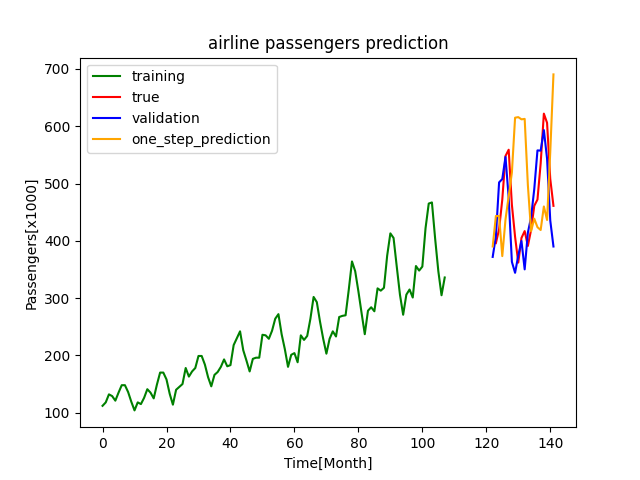
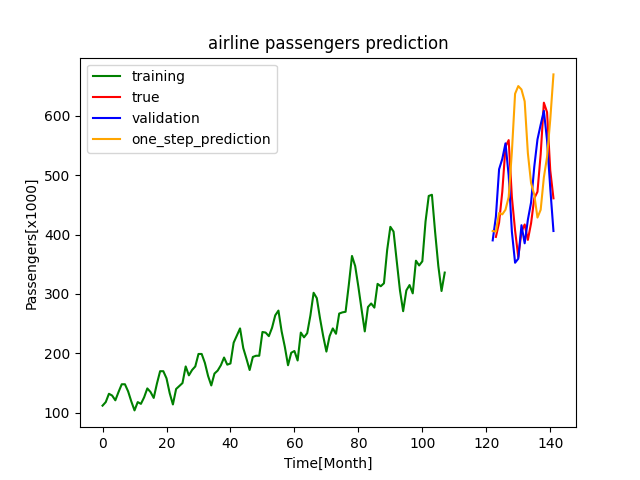
fix bug in aireline_passengers_forecasting_keras

diff --git a/TimeSeriesPrediction/2_UnivariantTimeSeriesForecast/AirlinePassengers/Keras/airline_passengers_forecasting_keras.py b/TimeSeriesPrediction/2_UnivariantTimeSeriesForecast/AirlinePassengers/Keras/airline_passengers_forecasting_keras.py
@@ -60,7 +60,7 @@ ffn = create_FFN(train_input_timeseries, train_targets)
 
 def validation_forecast(model, inputs):
     predictions = model.predict(inputs)
-    return predictions.tolist()
+    return predictions.flatten()
 
 
 results = pd.DataFrame()
@@ -83,6 +83,8 @@ start_value = test_input_timeseries[-1]
 start_value_reshaped = start_value.reshape(1, start_value.shape[0])
 results["one_step_prediction"] = one_step_ahead_forecast(ffn, start_value_reshaped, len(test_targets))
 results.index += 107
+
+print(results)
 
 plt.plot(airlinePassengers.get_train_inputs(), color="green", label="training")
 plt.plot(results["true"], color="red", label="true")
